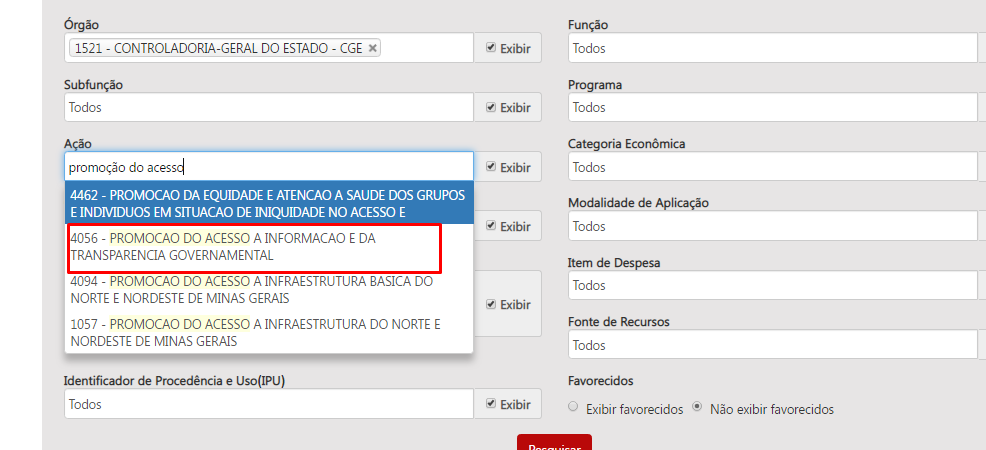
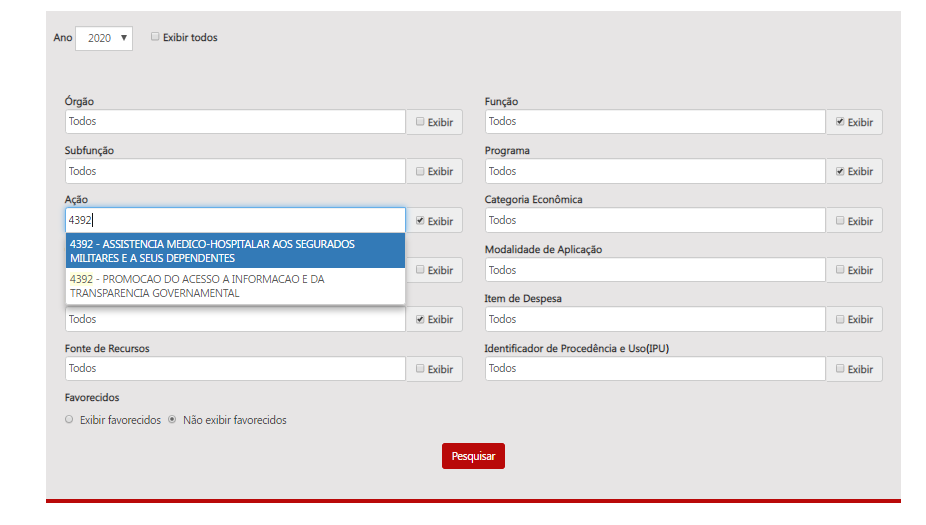
homologa-consulta-avançada-restos-a-pagar

diff --git a/espec003_consulta-restos-a-pagar/inclusao-novos-filtros-consulta-restos-a-pagar-homologa-valores.md b/espec003_consulta-restos-a-pagar/inclusao-novos-filtros-consulta-restos-a-pagar-homologa-valores.md
@@ -1,8 +1,7 @@
 # Homologação consulta avançada - Restos a Pagar
 
 <div class="alert alert-info">
-As divergências estão destacadas em  <div class="alert alert-danger"> vermelho
-  </div>
+Todas as divergências foram corrigidas na homologação do dia 30/03/2020.
   </div>
 
 
@@ -12,28 +11,25 @@ Ao selecionar  alguns filtros na caixa de seleção o Portal não retorna nenhum
 
 ### Filtros utilizados na seleção da pesquisa avançada:
 
-* __CONTROLADORIA -GERAL DO ESTADO__
+* CONTROLADORIA -GERAL DO ESTADO:
 
 ![](static/valores-pesquisa-avancada.png)
 
 
-<div class="alert alert-danger">
+<div class="alert alert-success">
 
-__Pesquisa Avançada__
+__Pesquisa Avançada__ - CORRIGIDO
 
 1. Função selecionada: Administração
 
 ![](static/valores-pesquisa-avancada-funcao.png)
 
-
 * Função selecionada: Todos - O Portal exibe resultados
 
 ![](static/valores-pesquisa-avancada-funcao-todos.png)
 
-___OBS: Esse mesmo erro ocorre ao selecionar outros filtros___
-
 ----
-2. Alguns campos de seleção não estão apresentado as opções que constam na tabela de  resultado.
+2. Alguns campos de seleção não estão apresentado as opções que constam na tabela de  resultado. __[CORRIGIDO]__
 
 Exemplo: Programa- Minas as Claras
 
@@ -41,24 +37,25 @@ Exemplo: Programa- Minas as Claras
 
  </div>
 ---
-<div class="alert alert-danger">
+<div class="alert alert-success">
 
-3. A classificação de alguns itens que constam na caixa filtro não é o mesmo da tabela gerada em csv.  Destaca-se que o escopo do ano selecionado na consulta deve refletir a classificação orçamentária inscrita em restos a pagar e não a classificação vigente na lei do ano corrente.
+3. A classificação de alguns itens que constam na caixa filtro não é o mesmo da tabela gerada em csv.  Destaca-se que o escopo do ano selecionado na consulta deve refletir a classificação orçamentária inscrita em restos a pagar e não a classificação vigente na lei do ano corrente. __[CORRIGIDO]__
+______
 
-<div class="alert alert-warning">
+ * Exemplo 1: Em 08 de Janeiro/2020 foram inscritos em RP R$ 7317,47 da ação 4484 - Abastecimento de Medicamentos Básicos com ano de origem 2016 e R$ 514,16 da ação 4259 - Representação Judicial, Cobrança da Dívida Ativa e Assessoramento Jurídico ao Estado na Região Metrô com ano de origem 2019. Em 2020 o filtro de ação deve mostrar apenas as ações 4484 - Abastecimento de Medicamentos Básicos e 4259 - Representação Judicial, Cobrança da Dívida Ativa e Assessoramento Jurídico ao Estado na Região Metrô.
 
-__Luiz, conforme conversado com o Francisco antes de aplicar a solução para essas divergências favor entrar em contato, pois a CGE prefere que os itens dos filtros   reflitam apenas as classificações referente ao ano de inscrição em restos a pagar e não a lista de todas as classificações independente do ano.__
- </div>
-
-
-* Exemplo: Ao selecionar a ação "Promoção do acesso a Informação e da Transparência Governamental" no ano de 2020, o filtro apresenta como opção a ação "4056 - Promoção do acesso a Informação e da Transparência Governamental". No entanto, a ação com o código 4056 refere-se a classificação orçamentária do ano de 2020. Conforme tabela gerada no BO (Restos a pagar) o código correto da ação é 4392.
+![](static/valores-exemplo1-pesquisa-avancada.png)
+______
+* Exemplo 2: Ao selecionar a ação "Promoção do acesso a Informação e da Transparência Governamental" no ano de 2020, o filtro apresenta como opção a ação "4056 - Promoção do acesso a Informação e da Transparência Governamental". No entanto, a ação com o código 4056 refere-se a classificação orçamentária do ano de 2020. Conforme tabela gerada no BO (Restos a pagar) o código correto da ação é 4392.
 
 ![](static/valores-pesquisa-avancada-acao-codigo-filtro.png)
 
 ![](static/valores-pesquisa-avancada-acao-codigo-filtro-bo.png)
+![](static/valores-pesquisa-avancada-acao-codigo-filtro-bo2.png)
 
+______
 
-O resultado apresentado na tabela csv encontra-se correto.
+* O resultado apresentado na tabela csv encontra-se correto.
 
 ![](static/valores-pesquisa-avancada-acao-codigo-csv.png)
 
